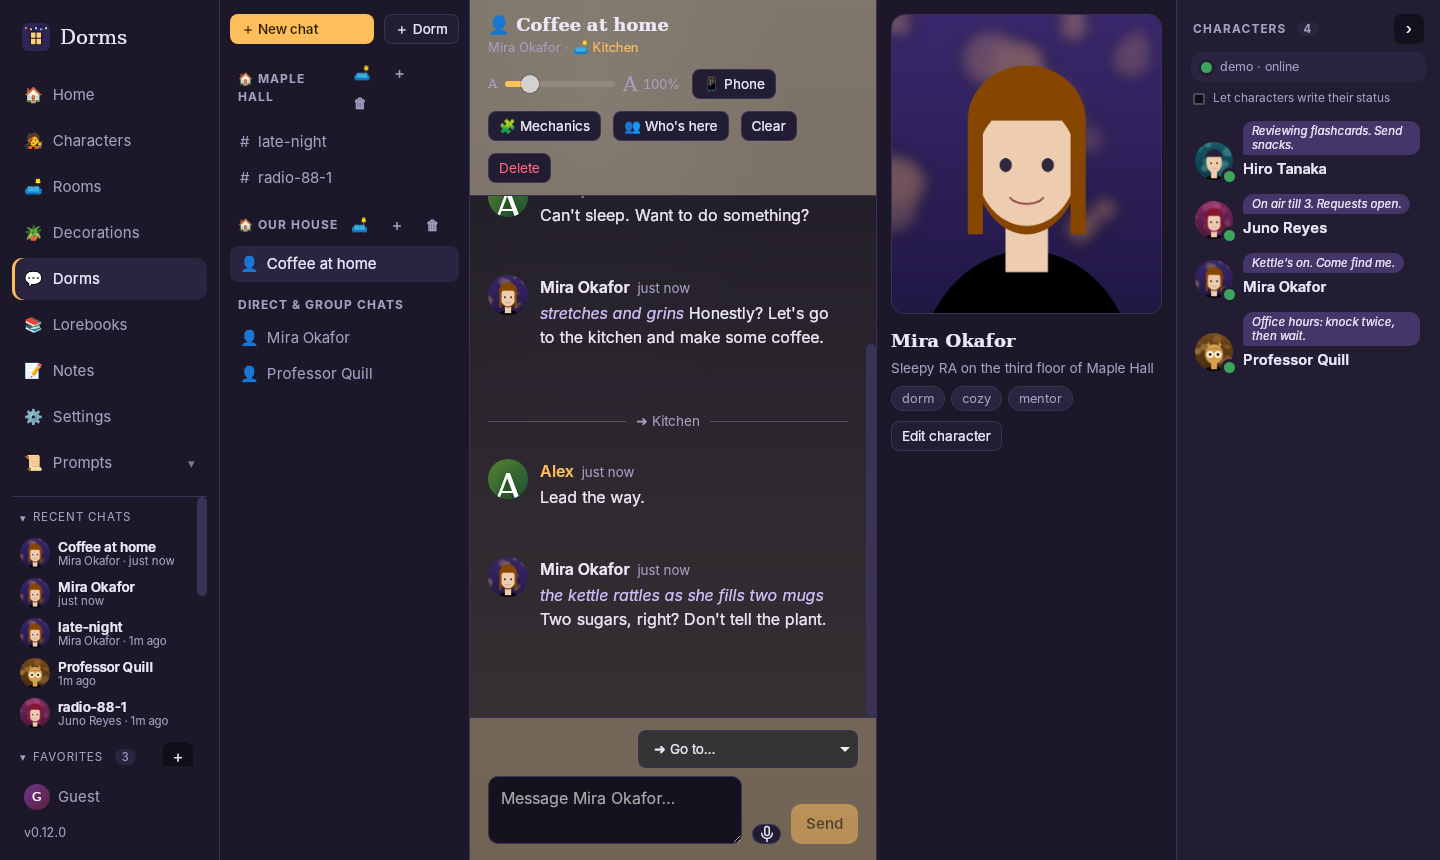
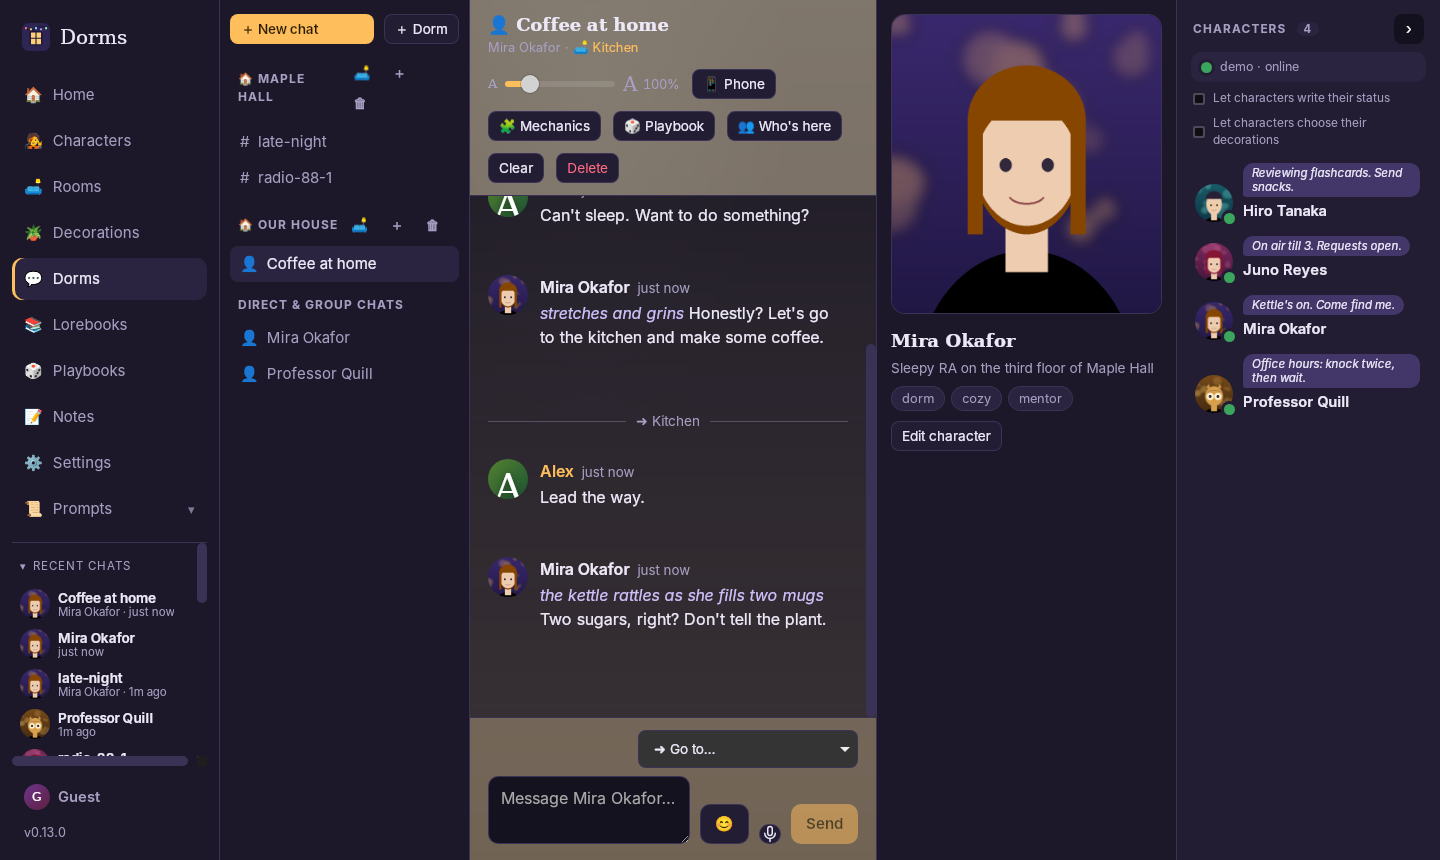
README: new renders for what is new in 0.13, near the top
Claude-Session: https://claude.ai/code/session_01W9XwycQNmmUvdQEqyR8ypg

diff --git a/tests/e2e/screenshots.py b/tests/e2e/screenshots.py
@@ -278,6 +278,79 @@ try:
     snap("desktop-side-bar", (1440, 1340))   # tall enough to show every side bar extra
     d.set_window_size(*DESK); time.sleep(0.5)
 
+    # ---- new in 0.13 ------------------------------------------------------------------------------------------------
+    def safe(label, fn):
+        try: fn()
+        except Exception as ex: print("SKIPPED", label, "->", str(ex)[:200], flush=True)
+    def tab(label): d.execute_script("[...document.querySelectorAll('.tab')].find(b=>b.textContent===arguments[0]).click()", label); time.sleep(0.8)
+    def click_btn(sel, text=None): d.execute_script("const e=[...document.querySelectorAll(arguments[0])].find(b=>!arguments[1]||b.textContent.includes(arguments[1]));e.click()", sel, text); time.sleep(0.8)
+    chars_all = inv("list_characters")
+
+    def decorations():
+        st = inv("get_settings"); st["deco"] = dict(st["deco"], plate="bubbletea", bg="boba", wreath="bobacup", tag="KOI", animate=False)
+        inv("save_settings", {"settings": st})
+        looks = [("sakura", "", "catphones"), ("aurora", "", "lotus"), ("embers", "", "sprout"), ("tide", "", "koi"), ("starfield", "", "pearlring"), ("neongrid", "", "redlantern")]
+        for c, (pl, bg, wr) in zip(chars_all, looks): inv("set_char_deco", {"characterId": c["id"], "plate": pl, "bg": bg, "wreath": wr})
+        reload_ui(); nav("Settings"); tab("Decorations")
+        snap("desktop-decorations", (1440, 1100))
+    safe("decorations", decorations)
+
+    def world():
+        w = inv("create_world", {"name": "Lantern Quarter", "description": "A neon-lit district of tea houses, rooftops and one very crowded house."})
+        inv("update_world", {"id": w["id"], "name": "Lantern Quarter", "description": "A neon-lit district of tea houses, rooftops and one very crowded house.", "lore": "# The Lantern Quarter\n\nBuilt along an old canal, the Quarter never quite sleeps. Paper lanterns hang between the rooftops and the corner shop is open all night.\n\n## Who lives here\n- Students who forgot to go home\n- A tea seller who knows everyone's order\n\n## Good to know\nThe attic has one round window and no way out but down.", "lorebooks": []})
+        inv("move_rooms_to_world", {"ids": [house["id"], kitchen["id"], living["id"], attic["id"]], "worldId": w["id"]})
+        d.execute_script("localStorage.setItem('dorms.rooms.view','cards'); localStorage.removeItem('dorms.rooms.world')")
+        reload_ui(); nav("Rooms"); time.sleep(0.8)
+        d.execute_script("document.querySelector('[data-testid=world-chip-%d]').click()" % w["id"]); time.sleep(0.8)
+        d.execute_script("document.querySelector('[data-testid=world-read]').click()"); time.sleep(1.0)
+        snap("desktop-world-overview", (1440, 1000))
+        d.execute_script("document.querySelector('.modal button[aria-label=Close]').click()"); time.sleep(0.4)
+    safe("world", world)
+
+    pb = {}
+    def playbooks():
+        tpl = inv("playbook_templates")
+        pb["p"] = inv("save_playbook", {"playbook": tpl[0]}); inv("save_playbook", {"playbook": tpl[1]})
+        reload_ui(); nav("Playbooks"); time.sleep(0.8)
+        snap("desktop-playbooks", (1440, 1000))
+        click_btn("[data-pb] button", pb["p"]["name"]); time.sleep(0.8)
+        snap("desktop-playbook-editor", (1440, 1100))
+    safe("playbooks", playbooks)
+
+    def playbook_panel():
+        if "p" not in pb: raise RuntimeError("no playbook")
+        inv("set_chat_playbook", {"chatId": walk["id"], "mode": "set", "playbookId": pb["p"]["id"], "scenario": None})
+        v = pb["p"]["variables"][0]; hi = (v.get("max") or 10); inv("set_playbook_values", {"chatId": walk["id"], "values": {v["id"]: hi * 0.6}})
+        reload_ui(); nav("Dorms")
+        d.execute_script("[...document.querySelectorAll('.chatlist .it')].find(b=>b.textContent.includes('Coffee at home')).click()"); time.sleep(1.5)
+        d.execute_script("document.querySelector('[data-testid=pb-open]').click()"); time.sleep(1.0)
+        snap("desktop-playbook-panel", (1440, 1000))
+        d.execute_script("document.querySelector('.modal button[aria-label=Close]').click()"); time.sleep(0.5)
+        d.execute_script("document.querySelector('[data-testid=novel-open]').click()"); time.sleep(1.0)
+        d.execute_script("const t=document.querySelector('[data-testid=novel-plot]');const set=Object.getOwnPropertyDescriptor(HTMLTextAreaElement.prototype,'value').set;set.call(t,'A slow-burn mystery in the old library, ending on a twist.');t.dispatchEvent(new Event('input',{bubbles:true}))"); time.sleep(0.6)
+        snap("desktop-novel", (1440, 1000))
+        d.execute_script("document.querySelector('.modal button[aria-label=Close]').click()"); time.sleep(0.4)
+    safe("playbook panel and novel", playbook_panel)
+
+    def folders():
+        bk = lambda n: {"name": n, "description": "", "scan_depth": None, "token_budget": None, "recursive_scanning": None, "extensions": {}, "entries": [{"keys": ["lantern"], "content": "Paper lanterns hang between the rooftops.", "extensions": {}, "enabled": True, "insertion_order": 0, "case_sensitive": None, "name": "Lanterns", "priority": None, "id": 0, "comment": "", "selective": False, "secondary_keys": [], "constant": False, "position": "before_char"}]}
+        made = {n: inv("save_lorebook", {"lorebook": {"id": "", "name": n, "book": bk(n), "created_at": 0, "updated_at": 0}}) for n in ["Lantern Quarter", "Corner shop regulars", "House rules", "Tea menu", "Old canal history", "Rooftop secrets"]}
+        f1 = inv("create_shelf_folder", {"kind": "lorebooks", "name": "World building", "parent": None}); f2 = inv("create_shelf_folder", {"kind": "lorebooks", "name": "Places", "parent": f1["id"]}); f3 = inv("create_shelf_folder", {"kind": "lorebooks", "name": "People", "parent": f1["id"]})
+        for n, f in [("Lantern Quarter", f2), ("Old canal history", f2), ("Rooftop secrets", f2), ("Corner shop regulars", f3), ("Tea menu", f3)]: inv("move_to_shelf_folder", {"kind": "lorebooks", "itemId": made[n]["id"], "folder": f["id"]})
+        reload_ui(); nav("Lorebooks"); time.sleep(1.0)
+        snap("desktop-folders", (1440, 900))
+    safe("folders", folders)
+
+    def profile_menu():
+        reload_ui(); nav("Characters"); time.sleep(0.6)
+        d.execute_script("const e=document.querySelector('[data-testid=me-row]');const r=e.getBoundingClientRect();e.dispatchEvent(new MouseEvent('contextmenu',{bubbles:true,cancelable:true,clientX:r.left+30,clientY:r.top+8}))"); time.sleep(0.6)
+        snap("desktop-profile-menu", DESK)
+        d.execute_script("document.querySelector('[data-testid=pm-quick]').click()"); time.sleep(0.8)
+        snap("desktop-quick-settings", DESK)
+        d.execute_script("document.querySelector('.modal button[aria-label=Close]').click()"); time.sleep(0.4)
+    safe("profile menu", profile_menu)
+    d.set_window_size(*DESK); time.sleep(0.5)
+
     # profiles: the Profile tab, then the welcome screen you see once a profile exists
     inv("create_profile", {"handle": "Alex", "displayName": "Alex", "passcode": "demo-pass"}); reload_ui()
     nav("Settings"); d.execute_script("[...document.querySelectorAll('.tab')].find(b=>b.textContent==='Profile').click()"); time.sleep(0.6)

diff --git a/README.md b/README.md
@@ -12,7 +12,19 @@ Cloud APIs are optional and use your own key.
 
 Rendered from the real app with original demo characters. (Cards, chats and avatars here are made up for the screenshots.)
 
-**What's new**
+**New in 0.13**
+
+| | |
+|---|---|
+| ![Profile decorations](docs/screenshots/desktop-decorations.png)<br>**Profile decorations**: nameplates, wreaths, moving backgrounds and a name tag for you, for your characters (or let the model dress them) and for rooms | ![Playbook panel](docs/screenshots/desktop-playbook-panel.png)<br>**Playbooks**: a story's values and rules. The characters are told the values (trust, mood, hunger...), and rules change them as you talk |
+| ![Playbooks](docs/screenshots/desktop-playbooks.png)<br>**Playbooks page**: your playbooks and ready-made starters, with folders to keep them tidy | ![Playbook editor](docs/screenshots/desktop-playbook-editor.png)<br>**Playbook editor**: values, rules (checks, chances, even a question for the model), lorebooks and starting scenarios |
+| ![Write a novel](docs/screenshots/desktop-novel.png)<br>**Write a novel**: beside Regenerate and Continue. Pick the plot, tone and length; read at your own pace while it keeps writing, planned to fit a free model's daily limit | ![World overview](docs/screenshots/desktop-world-overview.png)<br>**Worlds**: folders of connected rooms, with background lore to read before you dive in, and lorebooks that apply to every chat there |
+| ![Folders](docs/screenshots/desktop-folders.png)<br>**Folders** for lorebooks and playbooks: nest them, drag things in, rename any time | ![Profile menu](docs/screenshots/desktop-profile-menu.png)<br>**Right-click your profile**: quick settings, switch accounts, hide an account (shown again from Settings) |
+| ![Quick settings](docs/screenshots/desktop-quick-settings.png)<br>**Quick settings**: theme, text size, animation and who you are playing as | ![Side bar](docs/screenshots/desktop-side-bar.png)<br>**Side bar**: rename Recent, Favorites and Most used, and flip between several picture frames with the arrows |
+
+Also new: **emoji and stickers** (everywhere or per room, and the characters use them), **room galleries**, moving **GIF backdrops** kept light, **Left / Right / Backspace** to go back and forward, and personas are now optional.
+
+**Before that**
 
 | | |
 |---|---|
